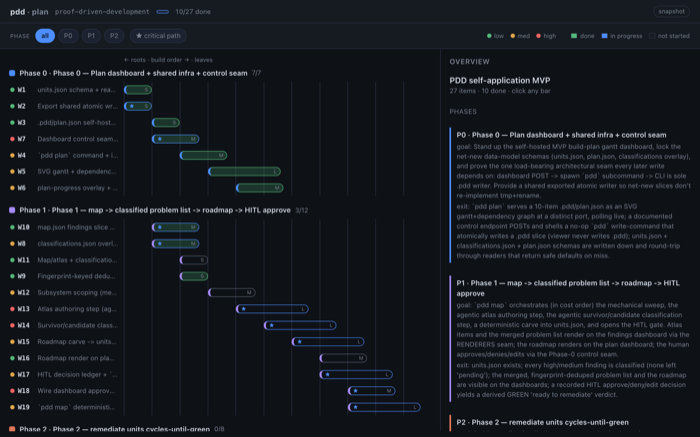
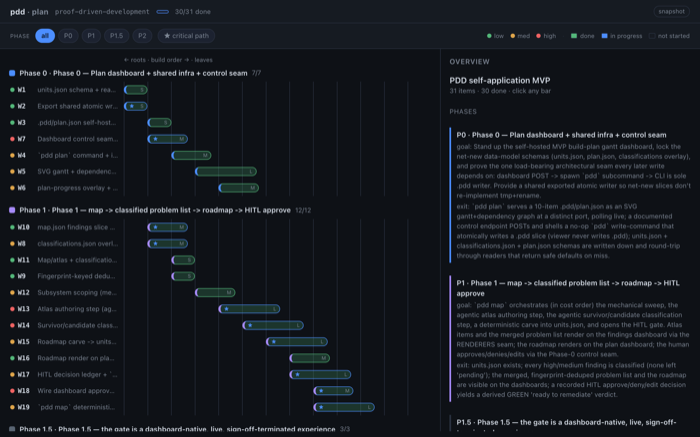
Portfolio: refresh the Plan snapshot with current data
- re-freeze build-plan from the live pdd plan payload (now 30/31 done, was 10/27)
- regenerate the Plan thumbnail to match

diff --git a/build-plan/index.html b/build-plan/index.html
@@ -175,7 +175,7 @@ body {
       </section>
     </main>
 
-    <script>window.__PLAN__ = {"version":1,"title":"PDD self-application MVP","generatedAt":"2026-06-11T23:24:19.497Z","phases":[{"id":"P0","name":"Phase 0 — Plan dashboard + shared infra + control seam","goal":"Stand up the self-hosted MVP build-plan gantt dashboard, lock the net-new data-model schemas (units.json, plan.json, classifications overlay), and prove the one load-bearing architectural seam every later write depends on: dashboard POST -> spawn `pdd` subcommand -> CLI is sole .pdd writer. Provide a shared exported atomic writer so net-new slices don't re-implement tmp+rename.","exit_criteria":"`pdd plan` serves a 10-item .pdd/plan.json as an SVG gantt+dependency graph at a distinct port, polling live; a documented control endpoint POSTs and shells a no-op `pdd` write-command that atomically writes a .pdd slice (viewer never writes .pdd); units.json + classifications.json + plan.json schemas are written down and round-trip through readers that return safe defaults on miss."},{"id":"P1","name":"Phase 1 — map -> classified problem list -> roadmap -> HITL approve","goal":"`pdd map` orchestrates (in cost order) the mechanical sweep, the agentic atlas authoring step, the agentic survivor/candidate classification step, a deterministic carve into units.json, and opens the HITL gate. Atlas items and the merged problem list render on the findings dashboard via the RENDERERS seam; the roadmap renders on the plan dashboard; the human approves/denies/edits via the Phase-0 control seam.","exit_criteria":"units.json exists; every high/medium finding is classified (none left 'pending'); the merged, fingerprint-deduped problem list and the roadmap are visible on the dashboards; a recorded HITL approve/deny/edit decision yields a derived GREEN 'ready to remediate' verdict."},{"id":"P2","name":"Phase 2 — remediate units cycles-until-green","goal":"`pdd remediate` pulls the next approved unit whose deps are green, preps a remediation plan (HITL-gated), then runs verify->agentic-fix->re-verify cycles in a long-lived per-unit worktree until a precise green bar, lands the diff, and advances. Per-unit cycle state streams to a sibling remediation status file rendered live on the dashboard.","exit_criteria":"On a seeded roadmap, `pdd remediate` drives at least one unit from approved to green using a scripted no-op fix provider end-to-end (deterministic), then the real agentic provider takes a unit to green; the per-unit cycle/phase/blocker state is live on the dashboard and the green unit's worktree diff lands on main without touching the working tree mid-run."}],"tracks":["INFRA","DASHBOARD","HITL","MAP","ROADMAP","REMEDIATE"],"decisions":[{"decision":"Where the HITL approval write lives — viewer-side control endpoint vs terminal-side CLI prompt","choice":"(b), implemented as POST -> spawn pdd subcommand -> CLI writes. The MVP explicitly wants approve/deny/edit IN the dashboard, and the single-writer invariant survives because the viewer never touches .pdd. All five reports converge here; W7 derisks it first."},{"decision":"Remediation roadmap artifact vs MVP build-plan artifact — one file or two","choice":"(b) two files. They have different owners, lifecycles, and audiences (units churn during remediation; plan is the stable spec of THIS build). The reports conflated them; separating keeps one writer per slice and lets the plan dashboard ship in Phase 0 before units.json exists."},{"decision":"How much of the map/atlas + carve is agentic vs deterministic","choice":"(b). Only reading-to-classify (atlas) and verdicting pending survivors are irreducible judgment; everything else is rule-driven, which keeps the roadmap reproducible (stable HITL diff) and the agents on bounded worklists."},{"decision":"green certification cadence — re-grade every cycle vs only on candidate-green","choice":"(b). grade is the minutes-expensive stage; gates+prove are instant/seconds. Per-unit grade is near-free on re-run thanks to the path scope + hash-cache, but certifying only on candidate-green avoids paying it every iteration."},{"decision":"gantt/dependency rendering — hand-rolled SVG vs cytoscape","choice":"(a) hand-rolled SVG. It matches the buildless/h()/CSS-token constraint with zero new runtime dep, reuses the existing facet/detail UI, and a build plan only needs depth columns + status bars + edges. Keep a columns-by-depth-with-badge-deps fallback if edge crossings get unreadable."},{"decision":"needs-HITL pause handling inside Phase 2 — block vs exit-and-resume","choice":"(b) exit + resume. Matches grade's async-by-design + aborted-zombie-guard discipline, lets the dashboard own approve/deny for both the plan gate and blocked units, and avoids a long-lived blocked process."},{"decision":"Status surface for remediation — extend mutation/status.json or a sibling file","choice":"(b) sibling file. Two writers on one file breaks the strict single-writer invariant grade depends on; a sibling keeps grade's M11 live-view contract byte-stable while reusing the same atomic-write + rollup + live-ring code and renderer pattern."}],"criticalPath":["W2","W7","W8","W10","W13","W14","W15","W17","W18","W19","W20","W23","W24","W25","W27"],"items":[{"id":"W1","title":"units.json schema + reader (readUnits/writeUnits, safe-default)","phase":"P0","track":"INFRA","depends_on":[],"size":"S","risk":"low","status":"done","critical":false,"agentic":false,"note":"readUnits() returns {version:1,units:[],order:[]} on a missing file; a hand-written units.json round-trips; ids match grade's slug."},{"id":"W2","title":"Export shared atomic writer (writeAtomic) from status.mjs","phase":"P0","track":"INFRA","depends_on":[],"size":"S","risk":"low","status":"done","critical":true,"agentic":false,"note":"writeAtomic is exported and imported by at least one new helper; existing callers unchanged; a poll mid-write never observes a torn file."},{"id":"W3","title":".pdd/plan.json self-hosted build-plan artifact + loader","phase":"P0","track":"DASHBOARD","depends_on":["W2"],"size":"S","risk":"low","status":"done","critical":false,"agentic":false,"note":"readPlan returns a safe empty plan on miss; deriveGraph returns per-item depth + a cycle-warning on a hand-crafted cyclic plan without throwing."},{"id":"W4","title":"`pdd plan` command + its own GET-only server","phase":"P0","track":"DASHBOARD","depends_on":["W3"],"size":"M","risk":"med","status":"done","critical":false,"agentic":false,"note":"`pdd plan` boots on 4318, returns 405 on POST, serves /api/plan JSON with no-store; two dashboards run side by side."},{"id":"W5","title":"SVG gantt + dependency-edge renderer (plan UI)","phase":"P0","track":"DASHBOARD","depends_on":["W4"],"size":"L","risk":"med","status":"done","critical":false,"agentic":false,"note":"A 10-item plan.json renders as a readable swimlane gantt with dependency arrows and status colors; clicking a bar shows its deps and note."},{"id":"W6","title":"plan-progress overlay + live poll (build->live transition)","phase":"P0","track":"DASHBOARD","depends_on":["W5"],"size":"M","risk":"med","status":"done","critical":false,"agentic":false,"note":"With a hand-written plan-progress.json present, the gantt shows the active item in-progress and the connection dot live; absent the overlay it shows the static plan."},{"id":"W7","title":"Dashboard control seam: POST -> spawn `pdd` -> CLI writes (walking skeleton)","phase":"P0","track":"HITL","depends_on":["W2"],"size":"M","risk":"high","status":"done","critical":true,"agentic":false,"note":"A button in the dashboard POSTs, the server spawns a `pdd` subcommand, and a .pdd slice changes atomically; GET-only invariant on all read routes preserved; viewer process never opens .pdd for write."},{"id":"W8","title":"classifications.json overlay schema + read-time merge","phase":"P1","track":"MAP","depends_on":["W2"],"size":"M","risk":"med","status":"done","critical":true,"agentic":false,"note":"A hand-written classifications.json flips a known survivor from 'pending' to 'real-gap' in mergeFindings output; mutation.json on disk unchanged."},{"id":"W9","title":"Fingerprint-keyed dedup/rollup over merged problem list","phase":"P1","track":"MAP","depends_on":["W8"],"size":"S","risk":"low","status":"done","critical":false,"agentic":false,"note":"A co-located triple-detected site appears once in the rolled-up list with all three sources' extra payloads attached."},{"id":"W10","title":"map.json findings slice + atlas adapter (source:\"map\")","phase":"P1","track":"MAP","depends_on":["W2"],"size":"M","risk":"low","status":"done","critical":true,"agentic":false,"note":"A sample atlas JSON adapts into map.json; mergeFindings folds map findings beside check/prove/grade with repo-relative locus + fingerprint."},{"id":"W11","title":"Map/atlas + classification RENDERERS keys (findings dashboard)","phase":"P1","track":"MAP","depends_on":["W10","W8"],"size":"S","risk":"low","status":"not-started","critical":false,"agentic":false,"note":"Atlas findings and a classified survivor render with source-specific detail panels and a classification badge on the existing dashboard."},{"id":"W12","title":"Subsystem scoping (mechanical seed + optional agent rank)","phase":"P1","track":"MAP","depends_on":["W9"],"size":"M","risk":"med","status":"not-started","critical":false,"agentic":false,"note":"scopes[] lists the load-bearing subsystems ranked, derived from finding density + churn, on this repo."},{"id":"W13","title":"Atlas authoring step (agentic, bounded sub-agent)","phase":"P1","track":"MAP","depends_on":["W12","W10"],"size":"L","risk":"high","status":"not-started","critical":true,"agentic":false,"note":"On a scoped subsystem, the agent returns valid four-part atlas JSON that adapts into map.json and renders on the dashboard."},{"id":"W14","title":"Survivor/candidate classification step (agentic) + persistence","phase":"P1","track":"MAP","depends_on":["W13","W8"],"size":"L","risk":"high","status":"not-started","critical":true,"agentic":false,"note":"After the step, no high/medium finding remains 'pending' in mergeFindings output; each verdict carries a rationale."},{"id":"W15","title":"Roadmap carve -> units.json (deterministic decompose-by-attention)","phase":"P1","track":"ROADMAP","depends_on":["W14","W9","W1"],"size":"L","risk":"med","status":"not-started","critical":true,"agentic":false,"note":"units.json is produced reproducibly from the classified problem list; re-running on unchanged input yields a stable carve (stable HITL diff)."},{"id":"W16","title":"Roadmap render on plan dashboard (units gantt/dep view)","phase":"P1","track":"ROADMAP","depends_on":["W15","W5"],"size":"M","risk":"low","status":"not-started","critical":false,"agentic":false,"note":"The carved roadmap renders as a dependency-ordered gantt with per-unit approval state on the plan dashboard."},{"id":"W17","title":"HITL decision ledger + `pdd roadmap` write-command","phase":"P1","track":"HITL","depends_on":["W15","W1"],"size":"L","risk":"med","status":"not-started","critical":true,"agentic":false,"note":"`pdd roadmap approve` appends a decision and flips the derived verdict to GREEN; the audit ledger is append-only and replayable."},{"id":"W18","title":"Wire dashboard approve/deny/edit to the roadmap command","phase":"P1","track":"HITL","depends_on":["W7","W17","W16"],"size":"M","risk":"high","status":"not-started","critical":true,"agentic":false,"note":"Clicking approve/deny/edit in the dashboard records the decision via a spawned `pdd roadmap` and the roadmap view reflects the new state on the next poll."},{"id":"W19","title":"`pdd map` deterministic spine (orchestrator)","phase":"P1","track":"MAP","depends_on":["W12","W13","W14","W15","W17","W9"],"size":"L","risk":"med","status":"not-started","critical":true,"agentic":false,"note":"`pdd map` on this repo produces a classified problem list + units.json + an open HITL gate end to end, streaming to the dashboard."},{"id":"W20","title":"Roadmap reader + per-unit state helpers for Phase 2","phase":"P2","track":"REMEDIATE","depends_on":["W1","W2"],"size":"M","risk":"med","status":"not-started","critical":true,"agentic":false,"note":"readRoadmap returns the next eligible unit honoring dependsOn-green; writeUnitState atomically updates one unit's state."},{"id":"W21","title":"remediation/status.json sibling writer + dashboard surface","phase":"P2","track":"REMEDIATE","depends_on":["W2"],"size":"M","risk":"low","status":"not-started","critical":false,"agentic":false,"note":"A hand-written remediation/status.json renders per-unit cycle N/M + current phase + blockers on the dashboard; grade's status.json contract untouched."},{"id":"W22","title":"Per-unit long-lived worktree session (distinct sandbox prefix)","phase":"P2","track":"REMEDIATE","depends_on":[],"size":"M","risk":"med","status":"not-started","critical":false,"agentic":false,"note":"A unit worktree survives multiple child gate/prove/grade runs; a concurrent grade prune does not reap it; destroySandbox cleanly discards a blocked unit."},{"id":"W23","title":"green-evaluator (pure scope-filtered read over slices)","phase":"P2","track":"REMEDIATE","depends_on":["W20"],"size":"M","risk":"high","status":"not-started","critical":true,"agentic":false,"note":"On a unit with a known surviving mutant, evaluateGreen returns green:false with that blocker; once killed, returns green:true."},{"id":"W24","title":"agentic-fix seam behind a provider interface","phase":"P2","track":"REMEDIATE","depends_on":["W22"],"size":"L","risk":"high","status":"not-started","critical":true,"agentic":false,"note":"The noop provider drives the loop deterministically; the claude provider applies a real edit inside the worktree addressing the top blocker."},{"id":"W25","title":"cmdRemediate orchestrator + per-unit state machine (skeleton)","phase":"P2","track":"REMEDIATE","depends_on":["W20","W21","W22","W23","W24"],"size":"L","risk":"high","status":"not-started","critical":true,"agentic":false,"note":"With the noop provider on a seeded unit, `pdd remediate` runs the full cycle loop and advances/blocks deterministically, streaming state to the dashboard."},{"id":"W26","title":"plan-prep step (characterization baseline, HITL-gated)","phase":"P2","track":"REMEDIATE","depends_on":["W22","W24","W25"],"size":"L","risk":"high","status":"not-started","critical":false,"agentic":false,"note":"For a unit, plan-prep writes plan.json with characterization tests green on the baseline; a later pinned-test regression flips the unit to needs-HITL."},{"id":"W27","title":"Land-on-green + needs-HITL resume + real-provider run","phase":"P2","track":"REMEDIATE","depends_on":["W25","W26","W7"],"size":"L","risk":"high","status":"not-started","critical":true,"agentic":false,"note":"A real unit goes approved->green->landed with the agentic provider; the user's working tree is untouched mid-run; a needs-HITL pause resumes after a dashboard approval."}],"graph":{"depth":{"W1":0,"W2":0,"W3":1,"W4":2,"W5":3,"W6":4,"W7":1,"W8":1,"W9":2,"W10":1,"W11":2,"W12":3,"W13":4,"W14":5,"W15":6,"W16":7,"W17":7,"W18":8,"W19":8,"W20":1,"W21":1,"W22":0,"W23":2,"W24":1,"W25":3,"W26":4,"W27":5},"order":["W1","W2","W22","W10","W20","W21","W24","W3","W7","W8","W11","W23","W4","W9","W12","W25","W5","W13","W26","W6","W14","W27","W15","W16","W17","W18","W19"],"warnings":[]},"progress":null,"repo":"proof-driven-development"};</script>
+    <script>window.__PLAN__ = {"version":1,"title":"PDD self-application MVP","generatedAt":"2026-06-11T23:24:19.497Z","phases":[{"id":"P0","name":"Phase 0 — Plan dashboard + shared infra + control seam","goal":"Stand up the self-hosted MVP build-plan gantt dashboard, lock the net-new data-model schemas (units.json, plan.json, classifications overlay), and prove the one load-bearing architectural seam every later write depends on: dashboard POST -> spawn `pdd` subcommand -> CLI is sole .pdd writer. Provide a shared exported atomic writer so net-new slices don't re-implement tmp+rename.","exit_criteria":"`pdd plan` serves a 10-item .pdd/plan.json as an SVG gantt+dependency graph at a distinct port, polling live; a documented control endpoint POSTs and shells a no-op `pdd` write-command that atomically writes a .pdd slice (viewer never writes .pdd); units.json + classifications.json + plan.json schemas are written down and round-trip through readers that return safe defaults on miss."},{"id":"P1","name":"Phase 1 — map -> classified problem list -> roadmap -> HITL approve","goal":"`pdd map` orchestrates (in cost order) the mechanical sweep, the agentic atlas authoring step, the agentic survivor/candidate classification step, a deterministic carve into units.json, and opens the HITL gate. Atlas items and the merged problem list render on the findings dashboard via the RENDERERS seam; the roadmap renders on the plan dashboard; the human approves/denies/edits via the Phase-0 control seam.","exit_criteria":"units.json exists; every high/medium finding is classified (none left 'pending'); the merged, fingerprint-deduped problem list and the roadmap are visible on the dashboards; a recorded HITL approve/deny/edit decision yields a derived GREEN 'ready to remediate' verdict."},{"id":"P1.5","name":"Phase 1.5 — the gate is a dashboard-native, live, sign-off-terminated experience","goal":"The operator runs and finishes the whole MAP from the dashboard: launch it there, watch every phase (sweep -> atlas -> classify -> carve) stream into the SAME view that becomes the roadmap, then explicitly sign off to freeze the remediation map. The Claude session stays the real driver (Model B); the dashboard is the launch-request + live view + sign-off surface, not a second place to look.","exit_criteria":"From the plan dashboard alone: a 'Map this project' control kicks off a run whose sweep/atlas/classify/carve progress is visible live on the roadmap tab and resolves into the carved units; a 'review complete' sign-off (enabled once every unit is triaged) freezes the curated roadmap as Phase 1's output and the recorded Phase-2 handoff."},{"id":"P2","name":"Phase 2 — remediate units cycles-until-green","goal":"`pdd remediate` pulls the next approved unit whose deps are green, preps a remediation plan (HITL-gated), then runs verify->agentic-fix->re-verify cycles in a long-lived per-unit worktree until a precise green bar, lands the diff, and advances. Per-unit cycle state streams to a sibling remediation status file rendered live on the dashboard.","exit_criteria":"On a seeded roadmap, `pdd remediate` drives at least one unit from approved to green using a scripted no-op fix provider end-to-end (deterministic), then the real agentic provider takes a unit to green; the per-unit cycle/phase/blocker state is live on the dashboard and the green unit's worktree diff lands on main without touching the working tree mid-run."}],"tracks":["INFRA","DASHBOARD","HITL","MAP","ROADMAP","REMEDIATE"],"decisions":[{"decision":"Where the HITL approval write lives — viewer-side control endpoint vs terminal-side CLI prompt","choice":"(b), implemented as POST -> spawn pdd subcommand -> CLI writes. The MVP explicitly wants approve/deny/edit IN the dashboard, and the single-writer invariant survives because the viewer never touches .pdd. All five reports converge here; W7 derisks it first."},{"decision":"Remediation roadmap artifact vs MVP build-plan artifact — one file or two","choice":"(b) two files. They have different owners, lifecycles, and audiences (units churn during remediation; plan is the stable spec of THIS build). The reports conflated them; separating keeps one writer per slice and lets the plan dashboard ship in Phase 0 before units.json exists."},{"decision":"How much of the map/atlas + carve is agentic vs deterministic","choice":"(b). Only reading-to-classify (atlas) and verdicting pending survivors are irreducible judgment; everything else is rule-driven, which keeps the roadmap reproducible (stable HITL diff) and the agents on bounded worklists."},{"decision":"green certification cadence — re-grade every cycle vs only on candidate-green","choice":"(b). grade is the minutes-expensive stage; gates+prove are instant/seconds. Per-unit grade is near-free on re-run thanks to the path scope + hash-cache, but certifying only on candidate-green avoids paying it every iteration."},{"decision":"gantt/dependency rendering — hand-rolled SVG vs cytoscape","choice":"(a) hand-rolled SVG. It matches the buildless/h()/CSS-token constraint with zero new runtime dep, reuses the existing facet/detail UI, and a build plan only needs depth columns + status bars + edges. Keep a columns-by-depth-with-badge-deps fallback if edge crossings get unreadable."},{"decision":"needs-HITL pause handling inside Phase 2 — block vs exit-and-resume","choice":"(b) exit + resume. Matches grade's async-by-design + aborted-zombie-guard discipline, lets the dashboard own approve/deny for both the plan gate and blocked units, and avoids a long-lived blocked process."},{"decision":"Status surface for remediation — extend mutation/status.json or a sibling file","choice":"(b) sibling file. Two writers on one file breaks the strict single-writer invariant grade depends on; a sibling keeps grade's M11 live-view contract byte-stable while reusing the same atomic-write + rollup + live-ring code and renderer pattern."}],"criticalPath":["W2","W7","W8","W10","W13","W14","W15","W17","W18","W19","W28","W29","W30","W20","W23","W24","W25","W27"],"items":[{"id":"W1","title":"units.json schema + reader (readUnits/writeUnits, safe-default)","phase":"P0","track":"INFRA","depends_on":[],"size":"S","risk":"low","status":"done","critical":false,"agentic":false,"note":"readUnits() returns {version:1,units:[],order:[]} on a missing file; a hand-written units.json round-trips; ids match grade's slug."},{"id":"W2","title":"Export shared atomic writer (writeAtomic) from status.mjs","phase":"P0","track":"INFRA","depends_on":[],"size":"S","risk":"low","status":"done","critical":true,"agentic":false,"note":"writeAtomic is exported and imported by at least one new helper; existing callers unchanged; a poll mid-write never observes a torn file."},{"id":"W3","title":".pdd/plan.json self-hosted build-plan artifact + loader","phase":"P0","track":"DASHBOARD","depends_on":["W2"],"size":"S","risk":"low","status":"done","critical":false,"agentic":false,"note":"readPlan returns a safe empty plan on miss; deriveGraph returns per-item depth + a cycle-warning on a hand-crafted cyclic plan without throwing."},{"id":"W4","title":"`pdd plan` command + its own GET-only server","phase":"P0","track":"DASHBOARD","depends_on":["W3"],"size":"M","risk":"med","status":"done","critical":false,"agentic":false,"note":"`pdd plan` boots on 4318, returns 405 on POST, serves /api/plan JSON with no-store; two dashboards run side by side."},{"id":"W5","title":"SVG gantt + dependency-edge renderer (plan UI)","phase":"P0","track":"DASHBOARD","depends_on":["W4"],"size":"L","risk":"med","status":"done","critical":false,"agentic":false,"note":"A 10-item plan.json renders as a readable swimlane gantt with dependency arrows and status colors; clicking a bar shows its deps and note."},{"id":"W6","title":"plan-progress overlay + live poll (build->live transition)","phase":"P0","track":"DASHBOARD","depends_on":["W5"],"size":"M","risk":"med","status":"done","critical":false,"agentic":false,"note":"With a hand-written plan-progress.json present, the gantt shows the active item in-progress and the connection dot live; absent the overlay it shows the static plan."},{"id":"W7","title":"Dashboard control seam: POST -> spawn `pdd` -> CLI writes (walking skeleton)","phase":"P0","track":"HITL","depends_on":["W2"],"size":"M","risk":"high","status":"done","critical":true,"agentic":false,"note":"A button in the dashboard POSTs, the server spawns a `pdd` subcommand, and a .pdd slice changes atomically; GET-only invariant on all read routes preserved; viewer process never opens .pdd for write."},{"id":"W8","title":"classifications.json overlay schema + read-time merge","phase":"P1","track":"MAP","depends_on":["W2"],"size":"M","risk":"med","status":"done","critical":true,"agentic":false,"note":"A hand-written classifications.json flips a known survivor from 'pending' to 'real-gap' in mergeFindings output; mutation.json on disk unchanged."},{"id":"W9","title":"Fingerprint-keyed dedup/rollup over merged problem list","phase":"P1","track":"MAP","depends_on":["W8"],"size":"S","risk":"low","status":"done","critical":false,"agentic":false,"note":"A co-located triple-detected site appears once in the rolled-up list with all three sources' extra payloads attached."},{"id":"W10","title":"map.json findings slice + atlas adapter (source:\"map\")","phase":"P1","track":"MAP","depends_on":["W2"],"size":"M","risk":"low","status":"done","critical":true,"agentic":false,"note":"A sample atlas JSON adapts into map.json; mergeFindings folds map findings beside check/prove/grade with repo-relative locus + fingerprint."},{"id":"W11","title":"Map/atlas + classification RENDERERS keys (findings dashboard)","phase":"P1","track":"MAP","depends_on":["W10","W8"],"size":"S","risk":"low","status":"done","critical":false,"agentic":false,"note":"Atlas findings and a classified survivor render with source-specific detail panels and a classification badge on the existing dashboard."},{"id":"W12","title":"Subsystem scoping (mechanical seed + optional agent rank)","phase":"P1","track":"MAP","depends_on":["W9"],"size":"M","risk":"med","status":"done","critical":false,"agentic":false,"note":"scopes[] lists the load-bearing subsystems ranked, derived from finding density + churn, on this repo."},{"id":"W13","title":"Atlas authoring step (agentic, bounded sub-agent)","phase":"P1","track":"MAP","depends_on":["W12","W10"],"size":"L","risk":"high","status":"done","critical":true,"agentic":false,"note":"On a scoped subsystem, the agent returns valid four-part atlas JSON that adapts into map.json and renders on the dashboard."},{"id":"W14","title":"Survivor/candidate classification step (agentic) + persistence","phase":"P1","track":"MAP","depends_on":["W13","W8"],"size":"L","risk":"high","status":"done","critical":true,"agentic":false,"note":"After the step, no high/medium finding remains 'pending' in mergeFindings output; each verdict carries a rationale."},{"id":"W15","title":"Roadmap carve -> units.json (deterministic decompose-by-attention)","phase":"P1","track":"ROADMAP","depends_on":["W14","W9","W1"],"size":"L","risk":"med","status":"done","critical":true,"agentic":false,"note":"units.json is produced reproducibly from the classified problem list; re-running on unchanged input yields a stable carve (stable HITL diff)."},{"id":"W16","title":"Roadmap render on plan dashboard (units gantt/dep view)","phase":"P1","track":"ROADMAP","depends_on":["W15","W5"],"size":"M","risk":"low","status":"done","critical":false,"agentic":false,"note":"The carved roadmap renders as a dependency-ordered gantt with per-unit approval state on the plan dashboard."},{"id":"W17","title":"HITL decision ledger + `pdd roadmap` write-command","phase":"P1","track":"HITL","depends_on":["W15","W1"],"size":"L","risk":"med","status":"done","critical":true,"agentic":false,"note":"`pdd roadmap approve` appends a decision and flips the derived verdict to GREEN; the audit ledger is append-only and replayable."},{"id":"W18","title":"Wire dashboard approve/deny/edit to the roadmap command","phase":"P1","track":"HITL","depends_on":["W7","W17","W16"],"size":"M","risk":"high","status":"done","critical":true,"agentic":false,"note":"Clicking approve/deny/edit in the dashboard records the decision via a spawned `pdd roadmap` and the roadmap view reflects the new state on the next poll."},{"id":"W19","title":"`pdd map` deterministic spine (orchestrator)","phase":"P1","track":"MAP","depends_on":["W12","W13","W14","W15","W17","W9"],"size":"L","risk":"med","status":"done","critical":true,"agentic":false,"note":"`pdd map` on this repo produces a classified problem list + units.json + an open HITL gate end to end, streaming to the dashboard."},{"id":"W20","title":"Roadmap reader + per-unit state helpers for Phase 2","phase":"P2","track":"REMEDIATE","depends_on":["W1","W2"],"size":"M","risk":"med","status":"done","critical":true,"agentic":false,"note":"readRoadmap returns the next eligible unit honoring dependsOn-green; writeUnitState atomically updates one unit's state."},{"id":"W21","title":"remediation/status.json sibling writer + dashboard surface","phase":"P2","track":"REMEDIATE","depends_on":["W2"],"size":"M","risk":"low","status":"done","critical":false,"agentic":false,"note":"A hand-written remediation/status.json renders per-unit cycle N/M + current phase + blockers on the dashboard; grade's status.json contract untouched."},{"id":"W22","title":"Per-unit long-lived worktree session (distinct sandbox prefix)","phase":"P2","track":"REMEDIATE","depends_on":[],"size":"M","risk":"med","status":"done","critical":false,"agentic":false,"note":"A unit worktree survives multiple child gate/prove/grade runs; a concurrent grade prune does not reap it; destroySandbox cleanly discards a blocked unit."},{"id":"W23","title":"green-evaluator (pure scope-filtered read over slices)","phase":"P2","track":"REMEDIATE","depends_on":["W20"],"size":"M","risk":"high","status":"done","critical":true,"agentic":false,"note":"On a unit with a known surviving mutant, evaluateGreen returns green:false with that blocker; once killed, returns green:true."},{"id":"W24","title":"agentic-fix seam behind a provider interface","phase":"P2","track":"REMEDIATE","depends_on":["W22"],"size":"L","risk":"high","status":"done","critical":true,"agentic":false,"note":"The noop provider drives the loop deterministically; the claude provider applies a real edit inside the worktree addressing the top blocker."},{"id":"W25","title":"cmdRemediate orchestrator + per-unit state machine (skeleton)","phase":"P2","track":"REMEDIATE","depends_on":["W20","W21","W22","W23","W24"],"size":"L","risk":"high","status":"done","critical":true,"agentic":false,"note":"With the noop provider on a seeded unit, `pdd remediate` runs the full cycle loop and advances/blocks deterministically, streaming state to the dashboard."},{"id":"W26","title":"plan-prep step (characterization baseline, HITL-gated)","phase":"P2","track":"REMEDIATE","depends_on":["W22","W24","W25"],"size":"L","risk":"high","status":"done","critical":false,"agentic":false,"note":"For a unit, plan-prep writes plan.json with characterization tests green on the baseline; a later pinned-test regression flips the unit to needs-HITL."},{"id":"W27","title":"Land-on-green + needs-HITL resume + real-provider run","phase":"P2","track":"REMEDIATE","depends_on":["W25","W26","W7"],"size":"L","risk":"high","status":"done","critical":true,"agentic":false,"note":"A real unit goes approved->green->landed with the agentic provider; the user's working tree is untouched mid-run; a needs-HITL pause resumes after a dashboard approval."},{"id":"W28","title":"Unified live MAP view on the plan dashboard","phase":"P1.5","track":"DASHBOARD","depends_on":["W19","W16"],"size":"M","risk":"low","status":"done","critical":true,"agentic":false,"note":"The plan dashboard shows a MAP run streaming — sweep -> atlas -> classify -> carve — in the same roadmap view it resolves into; reads the .pdd/.run/ slices, no port-hopping to the findings dashboard."},{"id":"W29","title":"Launch MAP from the dashboard (request -> session/CLI drives)","phase":"P1.5","track":"HITL","depends_on":["W28","W7"],"size":"M","risk":"med","status":"done","critical":true,"agentic":false,"note":"A 'Map this project' control records a map-request via the W7 seam (the CLI is the writer); a deterministic provider runs autonomously, the real atlas is driven by the session; either way it streams into W28's view."},{"id":"W30","title":"Operator sign-off -> finalize the remediation map","phase":"P1.5","track":"HITL","depends_on":["W28","W17"],"size":"M","risk":"low","status":"done","critical":true,"agentic":false,"note":"An explicit 'review complete' action (enabled once every unit is triaged) freezes the curated roadmap as Phase 1's output + the Phase-2 handoff; a replayable ledger sign-off entry, not a quietly-derived GREEN."},{"id":"W31","title":"Re-sweep prove/grade post-fix (extend the gate beyond check-class)","phase":"P2","track":"REMEDIATE","depends_on":["W27"],"size":"M","risk":"med","status":"pending","critical":false,"agentic":false,"note":"Today the re-sweep gate re-runs only `pdd check`, so a unit whose open findings are all prove/grade/atlas-class can never auto-certify green and parks at needs-hitl by design (P2-5 surfaces this precisely). This increment re-runs prove/grade inside the worktree behind the same ReSweep seam, so such a unit can reach landed once it is built."}],"graph":{"depth":{"W1":0,"W2":0,"W3":1,"W4":2,"W5":3,"W6":4,"W7":1,"W8":1,"W9":2,"W10":1,"W11":2,"W12":3,"W13":4,"W14":5,"W15":6,"W16":7,"W17":7,"W18":8,"W19":8,"W20":1,"W21":1,"W22":0,"W23":2,"W24":1,"W25":3,"W26":4,"W27":5,"W28":9,"W29":10,"W30":10,"W31":6},"order":["W1","W2","W22","W10","W20","W21","W24","W3","W7","W8","W11","W23","W4","W9","W12","W25","W5","W13","W26","W6","W14","W27","W15","W31","W16","W17","W18","W19","W28","W29","W30"],"warnings":[]},"progress":{"version":1,"activeItemId":null,"lastEvent":"W27 done","updatedAt":"2026-06-17T19:02:53.177Z","statuses":{},"ring":[{"id":"W27","status":"done","at":"2026-06-17T19:02:53.177Z","note":null},{"id":"W27","status":"active","at":"2026-06-17T17:37:27.678Z","note":null},{"id":"W26","status":"done","at":"2026-06-16T01:58:05.593Z","note":null},{"id":"W25","status":"done","at":"2026-06-16T01:39:44.017Z","note":null},{"id":"W24","status":"done","at":"2026-06-16T00:16:44.775Z","note":null},{"id":"W23","status":"done","at":"2026-06-15T23:30:24.751Z","note":null},{"id":"W22","status":"done","at":"2026-06-15T23:19:41.846Z","note":null},{"id":"W21","status":"done","at":"2026-06-15T16:14:20.893Z","note":null},{"id":"W21","status":"active","at":"2026-06-15T16:09:05.192Z","note":"remediation/status.json writer + dashboard surface"},{"id":"W20","status":"done","at":"2026-06-15T14:11:42.477Z","note":null},{"id":"W20","status":"active","at":"2026-06-15T14:08:00.814Z","note":"Phase 2 start: remediation roadmap reader + per-unit state helpers"},{"id":"W30","status":"done","at":"2026-06-15T00:00:36.828Z","note":null},{"id":"W29","status":"done","at":"2026-06-15T00:00:36.585Z","note":null},{"id":"W28","status":"done","at":"2026-06-14T21:08:47.833Z","note":null},{"id":"W19","status":"done","at":"2026-06-14T17:37:31.623Z","note":null},{"id":"W18","status":"done","at":"2026-06-13T17:56:38.918Z","note":"W18: approve/deny/edit wired + informed via dossier"},{"id":"W16","status":"done","at":"2026-06-13T17:56:38.782Z","note":"W16 redesign: roadmap rendered + comprehensible dossier"},{"id":"W16","status":"active","at":"2026-06-13T12:31:53.146Z","note":"render the roadmap + wire approve/deny/edit on the plan dashboard"},{"id":"W17","status":"done","at":"2026-06-13T12:31:52.941Z","note":"HITL gate: pdd roadmap + decision ledger shipped (PR #15)"},{"id":"W17","status":"active","at":"2026-06-13T11:15:57.823Z","note":"HITL decision ledger + pdd roadmap write-command"},{"id":"W15","status":"done","at":"2026-06-13T11:15:57.746Z","note":"CARVE → units.json shipped (PR #14)"},{"id":"W14","status":"done","at":"2026-06-12T20:08:31.786Z","note":"classification: write-back + gate + map run + mock provider, observable, mock-tested"},{"id":"W13","status":"done","at":"2026-06-12T20:08:31.631Z","note":"atlas authoring: mock author + full-MAP orchestrator + observable, mock-tested"}]},"repo":"proof-driven-development"};</script>
     <script>
 // pdd plan — pure viewer. Polls the read-only server and renders the build plan as a gantt
 // (x = DAG build-order depth, width = effort, fill = status) + dependency highlight on